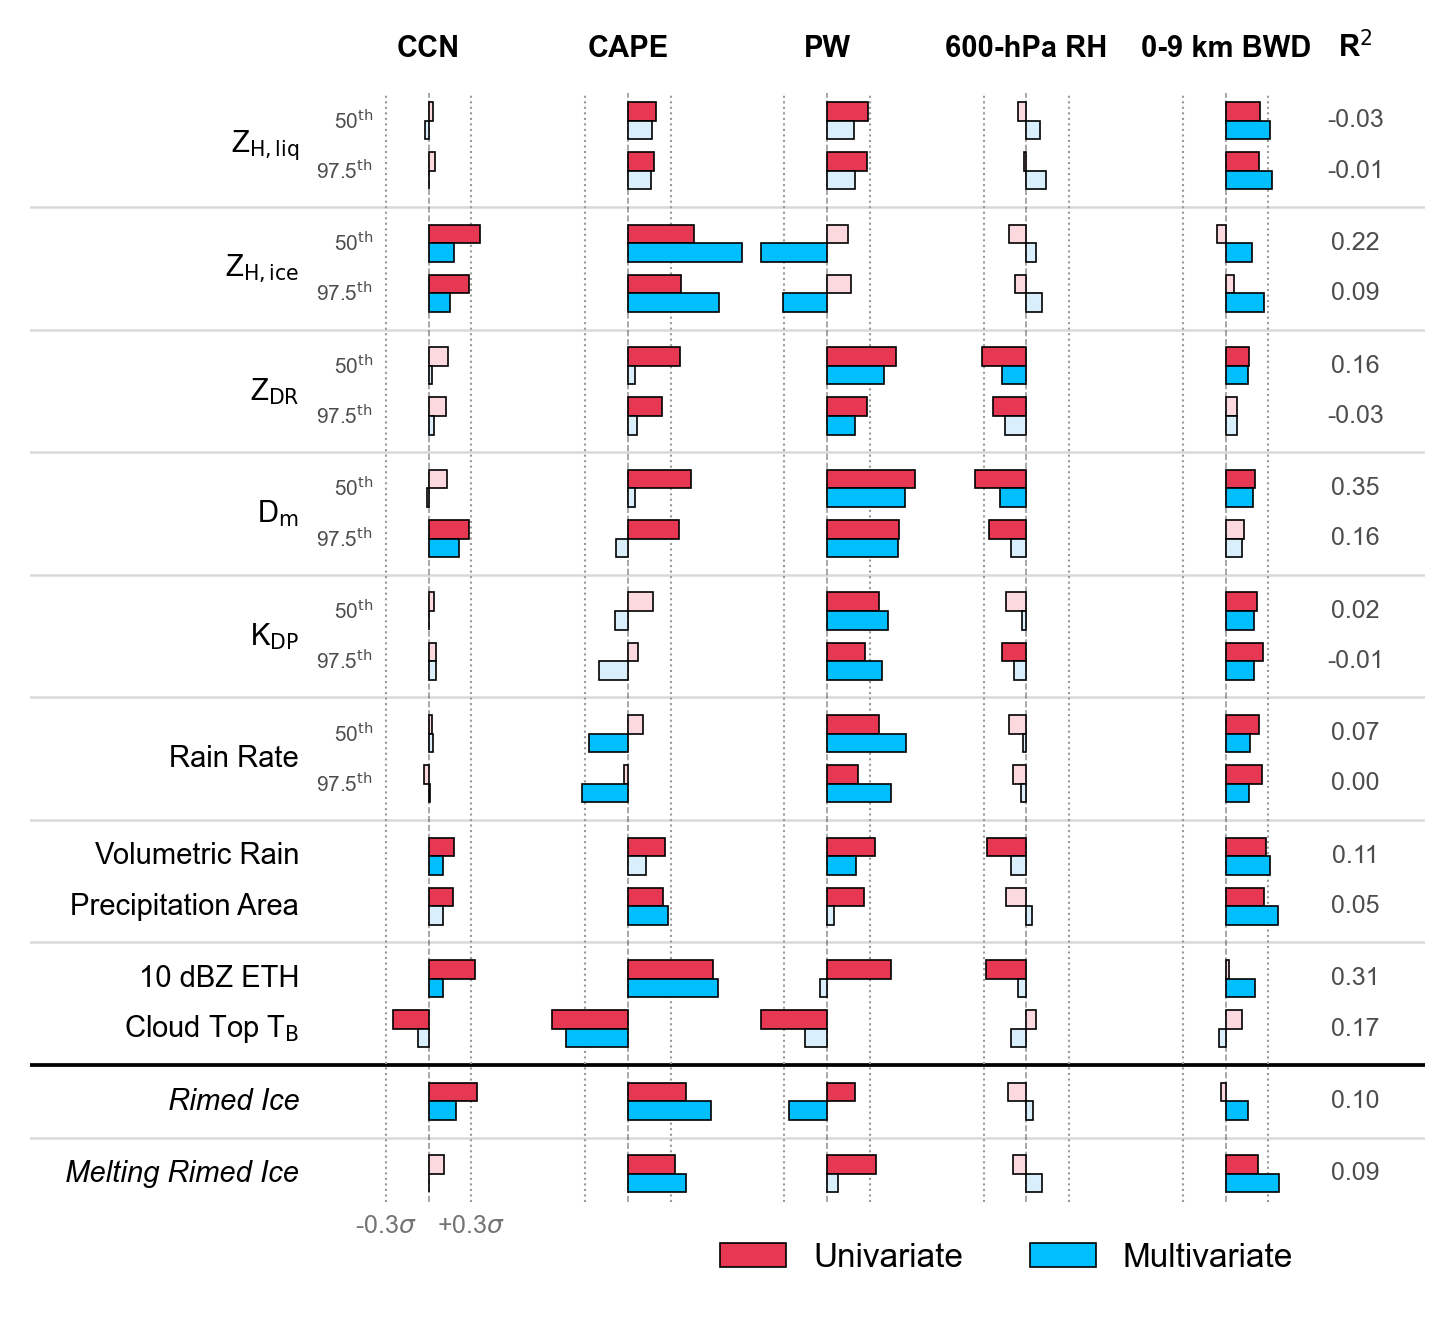
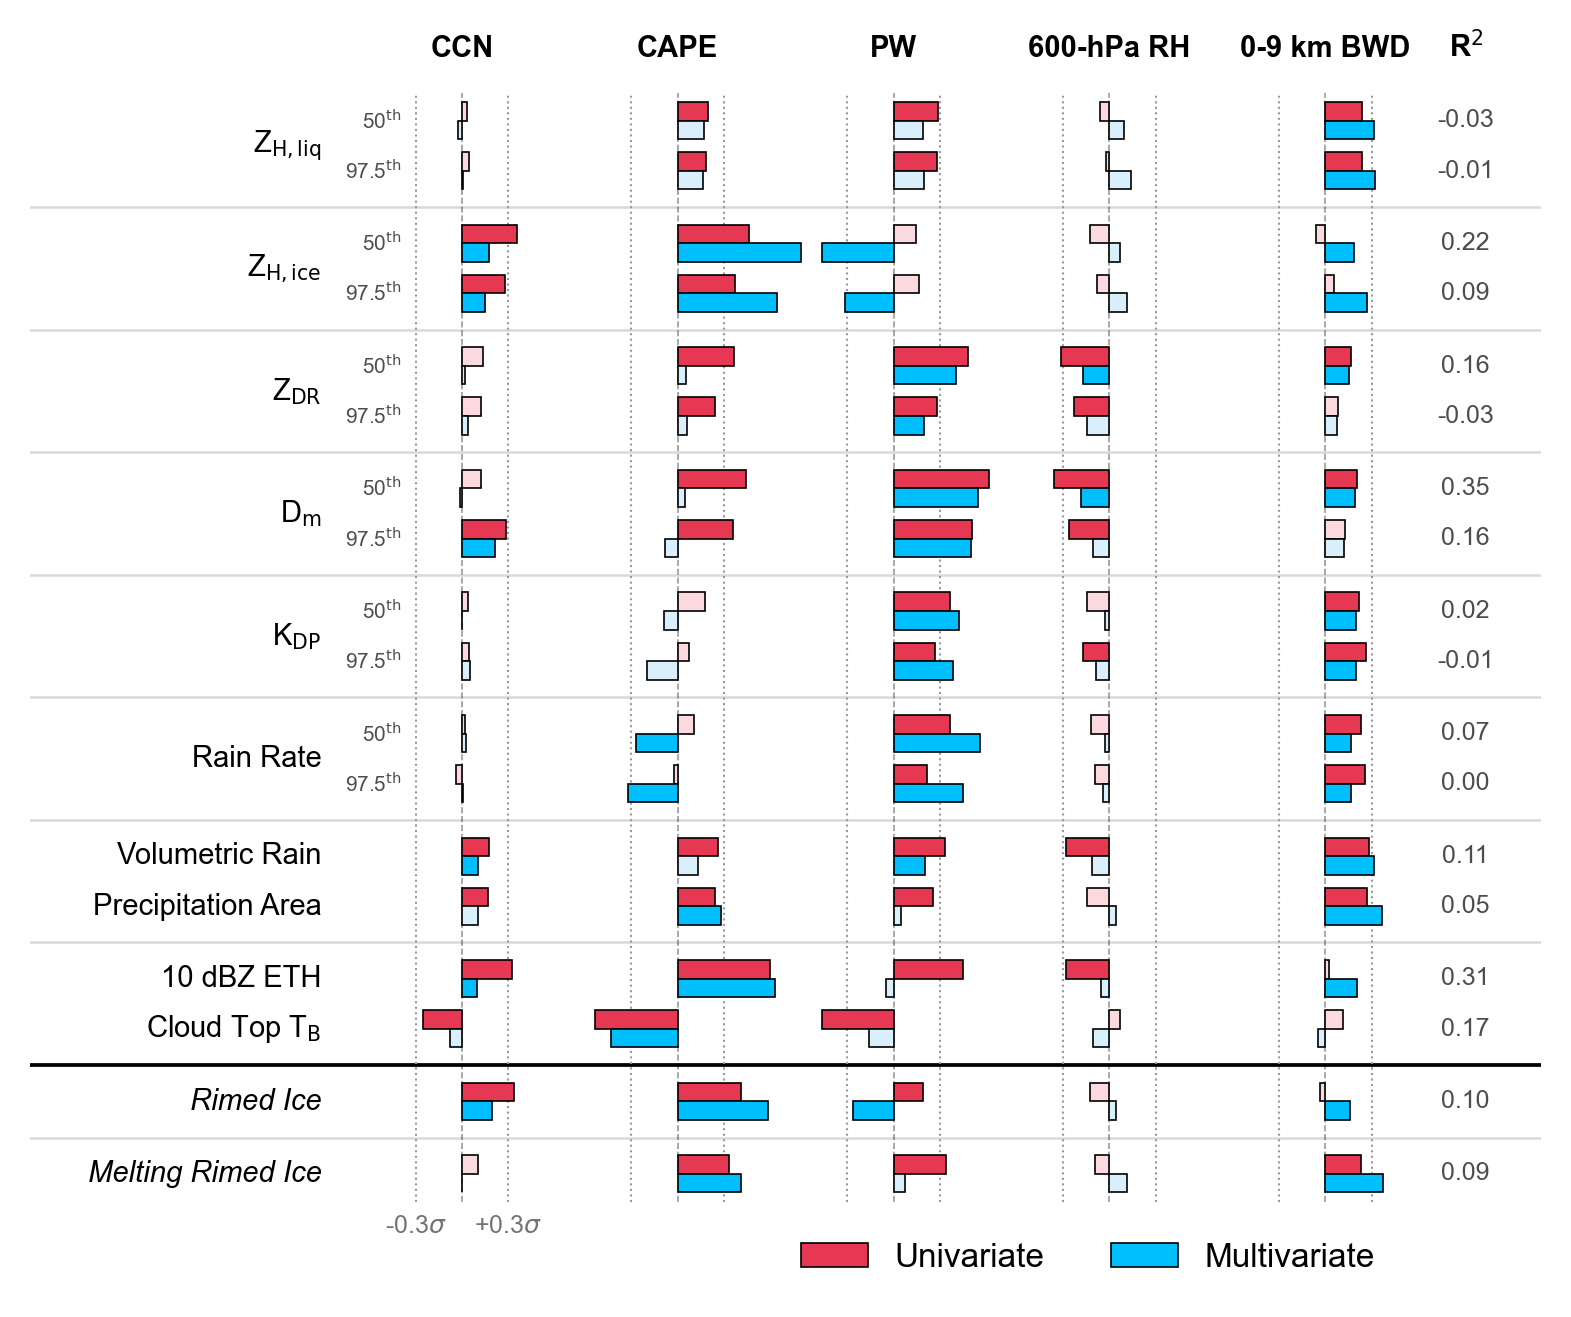
Add lingress_figure and refresh config options; add supplementary lingress figure
- config.yaml: add `lingress_figure` (main/supp) and `refresh` settings
- plots_lingress.py: per-mode response lists and spacing; `supp` mode shows
  every HID category and writes lingress_{CI}_supp{sfx}.png; cache keyed by mode
- plots_lingress.py, plots_pies.py, supp_lingress.py: replace --refresh flag
  with the `refresh` config option
- supp_lingress.py: tighten row spacing and widen figure to 6.5 in
- README: document the new settings, describe the four zips per folder,
  list the supplementary lingress figure
- Regenerate lingress and supp_lingress figures

diff --git a/scripts/plots_lingress.py b/scripts/plots_lingress.py
@@ -4,7 +4,10 @@ Responses run down in bands, predictors across. Each cell stacks RED (upper, one
 model) over BLUE (lower, partial coefficient from the full model); both use
 fit_bootstrap_regression with identical options, hence identical splits. Bar length = median
 over splits; deep colour = 2.5-97.5 split range excludes zero. The right-edge R^2 is the
-multivariate test R^2. Fits are cached per CI variable and mask.
+multivariate test R^2. Fits are cached per CI variable, mask, and mode.
+
+Set lingress_figure: supp in the config for the supplement figure (every HID category, tighter
+bars), suffixed _supp; main is the manuscript figure.
 """
 
 
@@ -33,20 +36,87 @@ mask     = config['mask']
 mask_var = 'good_indices' if mask == 'default' else 'good_indices_' + mask
 mask_sfx = '' if mask == 'default' else '_' + mask
 
+# Main (manuscript) or supplement figure; the supplement adds every HID category
+mode     = config['lingress_figure']
+mode_sfx = '' if mode == 'main' else '_supp'
+
+# Per-mode response list and vertical spacing. bar_height is one bar's thickness in y data
+# units; gaps are edge-to-edge in BAR_HEIGHTs (response pair <-> next, band <-> next band).
+MODES = {
+    'main': {
+        'bar_height': 0.7,
+        'gap_resp':   0.70,
+        'gap_band':   1.90,
+        'single_groups': [
+            [   # bulk rain amount vs. footprint
+                ('Volumetric Rain',             'volrain'),
+                ('Precipitation Area',          'rain_area_sampled'),
+            ],
+            [   # cell scale
+                ('10 dBZ ETH',                  'max_echotop_10dbz'),
+                (r'Cloud Top T$_{\mathrm{B}}$', 'cloud_top_temperature_min'),
+            ],
+            [   # rimed ice composite
+                ('**Rimed Ice**',           'rime_frz'),
+            ],
+            [   # melting rimed ice composite
+                ('**Melting Rimed Ice**',   'rime_liq'),
+            ],
+        ],
+    },
+    'supp': {
+        'bar_height': 0.6,
+        'gap_resp':   0.50,
+        'gap_band':   1.50,
+        'single_groups': [
+            [   # bulk rain amount vs. footprint
+                ('Volumetric Rain',             'volrain'),
+                ('Precipitation Area',          'rain_area_sampled'),
+            ],
+            [   # cell scale
+                ('10 dBZ ETH',                  'max_echotop_10dbz'),
+                (r'Cloud Top T$_{\mathrm{B}}$', 'cloud_top_temperature_min'),
+            ],
+            [   # liquid HID categories
+                ('Drizzle',             'drizzle'),
+                ('Rain',                'rain'),
+                ('Wet Snow',            'wet_snow'),
+            ],
+            [   # rimed ice: composite of the three categories above it
+                ('Graupel-low',         'low_density_graupel'),
+                ('Graupel-high',        'high_density_graupel_frz'),
+                ('Hail',                'hail_frz'),
+                ('**Rimed Ice**',           'rime_frz'),
+            ],
+            [   # melting rimed ice: composite of the three categories above it
+                ('Big Drops',           'big_drops'),
+                ('Graupel-high',        'high_density_graupel_liq'),
+                ('Hail',                'hail_liq'),
+                ('**Melting Rimed Ice**',   'rime_liq'),
+            ],
+            [   # unrimed ice: composite of the three categories above it
+                ('Aggregates',          'aggregates'),
+                ('Ice Crystals',        'ice_crystals'),
+                ('Vertical Ice',        'vertical_ice'),
+                ('**Non-Rimed Ice**',       'snow'),
+            ],
+        ],
+    },
+}
+
 # Coefficient scale shared by both bar types. Not clipped on purpose: overflow into the
 # next column is the cue to raise BAR_SCALE.
 BAR_SCALE     = 0.7
-BAR_HEIGHT    = 0.7  # thickness of one bar, y data units
+BAR_HEIGHT    = MODES[mode]['bar_height']
 COL_HALFWIDTH = 0.5  # half-width available to a bar within its column
 
-# Edge-to-edge gaps, in BAR_HEIGHTs. A pair must read as one object, so keep the
-# within-pair gap well below the others.
+# A pair must read as one object, so keep the within-pair gap well below the others
 GAP_WITHIN_PAIR       = 0     # univariate bar <-> its multivariate bar
-GAP_BETWEEN_RESPONSES = 0.70  # one response's pair <-> the next
-GAP_BETWEEN_BANDS     = 1.90  # last pair of a band <-> first pair of the next
+GAP_BETWEEN_RESPONSES = MODES[mode]['gap_resp']
+GAP_BETWEEN_BANDS     = MODES[mode]['gap_band']
 
 # Height = total_extent * FIG_INCHES_PER_Y, so bar thickness is fixed however many rows
-FIG_WIDTH        = 6
+FIG_WIDTH        = 6.5
 FIG_INCHES_PER_Y = 0.117
 
 HEADER_GAP = 1.5  # top of first bar to column headers, y data units
@@ -97,40 +167,7 @@ percentile_groups = [
 ]
 
 # Non-percentile responses; each inner list is one band, each row labelled individually
-single_groups = [
-    [   # bulk rain amount vs. footprint
-        ('Volumetric Rain',             'volrain'),
-        ('Precipitation Area',          'rain_area_sampled'),
-    ],
-    [   # cell scale
-        ('10 dBZ ETH',                  'max_echotop_10dbz'),
-        (r'Cloud Top T$_{\mathrm{B}}$', 'cloud_top_temperature_min'),
-    ],
-    # [   # liquid HID categories
-    #     ('Drizzle',             'drizzle'),
-    #     ('Rain',                'rain'),
-    #     ('Wet Snow',            'wet_snow'),
-    # ],
-    [   # rimed ice: composite of the three categories commented out below
-        # ('Graupel-low',         'low_density_graupel'),
-        # ('Graupel-high',        'high_density_graupel_frz'),
-        # ('Hail',                'hail_frz'),
-        ('**Rimed Ice**',           'rime_frz'),
-    ],
-    [   # melting rimed ice: composite of the three categories commented out below
-        # ('Big Drops',           'big_drops'),
-        # ('Graupel-high',        'high_density_graupel_liq'),
-        # ('Hail',                'hail_liq'),
-        ('**Melting Rimed Ice**',   'rime_liq'),
-    ],
-    # [   # unrimed ice: composite of the three categories below
-    #     # ('Aggregates',          'aggregates'),
-    #     # ('Ice Crystals',        'ice_crystals'),
-    #     # ('Vertical Ice',        'vertical_ice'),
-    #     ('**Non-Rimed Ice**',       'snow'),
-    # ],
-]
-
+single_groups = MODES[mode]['single_groups']
 
 # Percentile bands get one centred label; single-variable bands label each row
 bands = []
@@ -156,11 +193,11 @@ col2idx = {c: i for i, c in enumerate(pred)}
 lst        = ['ccn',  'CAPE_sfc','pw_mwr', 'rh_600mb', 'shear_mag_bulk_0to9km']
 lst_labels = ['CCN', 'CAPE', 'PW', '600-hPa RH', '0-9 km BWD']
 
-# Cache of the slow fits, one file per CI variable and mask. Fit options are not checked:
-# pass --refresh after changing the responses, predictors, or lib_regression.
-CACHE_PATH = data_dir + '/cache_lingress_' + CI_variable + mask_sfx + '.nc'
+# Cache of the slow fits, one file per CI variable, mode, and mask. Fit options are not checked:
+# set refresh: true after changing the responses, predictors, or lib_regression.
+CACHE_PATH = data_dir + '/cache_lingress_' + CI_variable + mode_sfx + mask_sfx + '.nc'
 
-if '--refresh' in sys.argv or not os.path.exists(CACHE_PATH):
+if config['refresh'] or not os.path.exists(CACHE_PATH):
     df_updr = xr.open_dataset(data_dir + '/df_updr_' + CI_variable + '.nc').to_dataframe()
     good    = xr.open_dataset(data_dir + '/the_chosen_few_' + CI_variable + '.nc')[mask_var].values
     df_updr = df_updr[good]
@@ -320,6 +357,6 @@ legend_elements = [
 ax.legend(handles=legend_elements, loc='upper center',
           bbox_to_anchor=(0.7, -0.01), ncol=2, fontsize=8, frameon=False)
 
-plt.savefig(plots_dir + '/lingress_' + CI_variable + mask_sfx + '.png', dpi=300,
+plt.savefig(plots_dir + '/lingress_' + CI_variable + mode_sfx + mask_sfx + '.png', dpi=300,
             bbox_inches="tight")
 plt.close('all')

diff --git a/scripts/supp_lingress.py b/scripts/supp_lingress.py
@@ -1,6 +1,6 @@
 """Supplementary sensitivity figure: responses down the rows, four sampling sweeps across the
 columns, one bar per variant giving the median standardized CCN coefficient (deep = 95% split
-range excludes zero, hatched = control run). Fits are cached; pass --refresh to refit.
+range excludes zero, hatched = control run). Fits are cached; set refresh: true in the config to refit.
 """
 
 import os
@@ -46,12 +46,12 @@ GAP_WITHIN_GROUP    = 0    # between variants of the same sweep
 GAP_BETWEEN_COLUMNS = 1.5  # between sweeps
 
 # Vertical gaps, y data units (a lane spans 2 * ROW_HALFHEIGHT)
-GAP_BETWEEN_RESPONSES = 0.3  # between response lanes
+GAP_BETWEEN_RESPONSES = 0.1  # between response lanes
 GAP_BETWEEN_BANDS     = 1.0  # between bands
 
 # Width is fixed; INCH_PER_Y_UNIT trades magnitude resolution against figure height
-FIG_WIDTH       = 6.2
-INCH_PER_Y_UNIT = 0.5
+FIG_WIDTH       = 6.5
+INCH_PER_Y_UNIT = 0.4
 
 LABEL_MARGIN = 4.2  # left margin for row labels, x data units
 
@@ -185,7 +185,7 @@ for column in COLUMNS:
                         for lab, v in zip(column['labels'], column['variants'])]
 
 
-# Fit options are not checked against the cache: pass --refresh after changing the
+# Fit options are not checked against the cache: set refresh: true after changing the
 # variants, responses, predictors, or lib_regression
 CACHE_PATH = data_dir + '/cache_supp_lingress_' + CI_variable + '.nc'
 
@@ -195,7 +195,7 @@ def _key(variant):
     return '|'.join(variant)
 
 
-if '--refresh' in sys.argv or not os.path.exists(CACHE_PATH):
+if config['refresh'] or not os.path.exists(CACHE_PATH):
     # Dedup, so the control is fitted once
     variants = sorted({v for column in COLUMNS for v in column['variants']})
 

diff --git a/scripts/plots_pies.py b/scripts/plots_pies.py
@@ -86,7 +86,7 @@ RESPONSES = [
     ('Volumetric Rain',                 'rainarea',  'volrain'),
 ]
 
-# One cache per mask. Fit options are not checked: pass --refresh after changing the panels,
+# One cache per mask. Fit options are not checked: set refresh: true after changing the panels,
 # predictors, or lib_regression.
 CACHE_PATH = data_dir + '/cache_pies' + mask_sfx + '.nc'
 
@@ -115,7 +115,7 @@ def fit_panels(ci_var, cols):
     )
 
 
-if '--refresh' in sys.argv or not os.path.exists(CACHE_PATH):
+if config['refresh'] or not os.path.exists(CACHE_PATH):
     # One fit per CI definition
     by_ci = {}
     for _, ci_var, col in RESPONSES:

diff --git a/README.md b/README.md
@@ -29,14 +29,14 @@ as four zips. Unzip them all into the same folder and set `celltracking_dir` and
 to the two folders this creates. `data.zip` is enough for every figure except `plots_csec.py`,
 which also needs `terrain.zip` and `case.zip`.
 
-`celltracking_dir` must contain four subfolders:
+`celltracking_dir` holds up to four subfolders:
 
-| Folder          | Contents                                                        | Source |
-|-----------------|-----------------------------------------------------------------|--------|
-| `stats/`        | Track statistics and per-track environment/aerosol parameters   | [Zenodo](https://doi.org/10.5281/zenodo.23094051), made with [PyFLEXTRKR](https://github.com/FlexTRKR/PyFLEXTRKR) + [cacti-radar](https://github.com/ICLASS-SFA/cacti-radar/tree/time_series_enochjo) |
-| `celltracking/` | Per-timestep cell masks, `20181015.0000_20190303.0000/celltracks_*.nc` | [Zenodo](https://doi.org/10.5281/zenodo.23094051) (case-study timestep only), made with [PyFLEXTRKR](https://github.com/FlexTRKR/PyFLEXTRKR) |
-| `data/`         | Preprocessing outputs (see below)                               | [Zenodo](https://doi.org/10.5281/zenodo.23094051) |
-| `terrain/`      | `terrain_d01.nc`, `lat_d01.nc`, `lon_d01.nc`                    | [Zenodo](https://doi.org/10.5281/zenodo.23094051) |
+| Folder          | Contents                                                        | Zip |
+|-----------------|-----------------------------------------------------------------|-----|
+| `data/`         | Preprocessing outputs (see below)                               | `data.zip` |
+| `stats/`        | Track statistics and per-track environment/aerosol parameters, made with [PyFLEXTRKR](https://github.com/FlexTRKR/PyFLEXTRKR) + [cacti-radar](https://github.com/ICLASS-SFA/cacti-radar/tree/time_series_enochjo). Only preprocessing reads it | `stats.zip` |
+| `terrain/`      | `terrain_d01.nc`, `lat_d01.nc`, `lon_d01.nc`                    | `terrain.zip` |
+| `celltracking/` | Per-timestep cell masks, `20181015.0000_20190303.0000/celltracks_*.nc`, made with [PyFLEXTRKR](https://github.com/FlexTRKR/PyFLEXTRKR) (case-study timestep only) | `case.zip` |
 
 The preprocessing scripts read these six files from `stats/`:
 
@@ -48,16 +48,16 @@ The preprocessing scripts read these six files from `stats/`:
 - `combomet_parameters_celltrack_20181015.0000_20190303.0000.nc`
 
 `gridded_dir` holds the TARANIS gridded radar files
-(`taranis_corcsapr2cfrppiqcM1.c1.*_gridded.nc`). Only `plots_csec.py` needs it. Zenodo has
-the case-study file. The full set is on NERSC (m1657 members) in `/global/cfs/cdirs/m1657/enochjo/taranis/taranis_corcsapr2cfrppiqcM1_gridded.c1/`.
+(`taranis_corcsapr2cfrppiqcM1.c1.*_gridded.nc`). Only `plots_csec.py` needs it. `case.zip`
+has the case-study file. The full set is on NERSC (m1657 members) in `/global/cfs/cdirs/m1657/enochjo/taranis/taranis_corcsapr2cfrppiqcM1_gridded.c1/`.
 
 ## Config options
 
-The config has two analysis switches besides the paths:
+Besides the paths, the config has four settings:
 
 - **`CI_variable`** sets the CI definition: the metric whose first peak within 2 h of track
   initiation sets the time each cell is sampled. The choices are `eth_10dbz` (main), `Tb_min`,
-  `zh_max`, `rr_max`, `volrain` and `rainarea`. Most figure names end in it, e.g.
+  `zh_max`, `rr_max`, `volrain` and `rainarea`. Most figure names include it, e.g.
   `corr_full_eth_10dbz.png`.
 - **`mask`** sets which cell filter from `the_chosen_few_{CI_variable}.nc` is applied. The
   default is `default` (details in `scripts/pipe_filter.py`). The other masks are
@@ -67,8 +67,11 @@ The config has two analysis switches besides the paths:
   - drop the Nth most prolific start date: `date1`–`date4`
 
   A non-default mask adds `_{mask}` to the figure name, so the manuscript figures are never
-  overwritten. Only the `plots_*` scripts (except `plots_csec.py`) read `mask`. These are the
-  figures marked `{sfx}` below. `plots_csec.py` and the `supp_*` scripts use fixed masks.
+  overwritten. Only the figures marked `{sfx}` below follow `mask`. `plots_csec.py` and the
+  `supp_*` scripts use fixed masks.
+- **`lingress_figure`** picks the `plots_lingress.py` figure: `main` or `supp` (every HID
+  category).
+- **`refresh`** refits the cached regressions (see [Making figures](#making-figures)).
 
 ## Preprocessing (optional)
 
@@ -90,20 +93,16 @@ once. So if you regenerate, run both steps once for each of the six `CI_variable
 ## Making figures
 
 Each figure script reads `df_updr_*.nc` and `the_chosen_few_*.nc` and writes PNGs to
-`plots_dir`. The exception is `plots_csec.py`, which reads only `the_chosen_few_eth_10dbz.nc`
-and always uses its default sample.
+`plots_dir`. The exception is `plots_csec.py`, which reads only the default mask of
+`the_chosen_few_eth_10dbz.nc`, plus the radar, cell-mask and terrain files.
 
 Three scripts fit regressions over 5000 repeated 70/30 train/test splits (`lib_regression.py`)
 and cache the fits in `data/cache_*.nc`: `plots_lingress.py`, `plots_pies.py` and
-`supp_lingress.py`. The caches are not on Zenodo, so the first run of each script fits the
-regressions. After that, the cache is reused. Each `CI_variable`/`mask` setting a script reads
-gets its own cache, but the contents are not checked against the current settings, so pass
-`--refresh` after re-running preprocessing or changing predictors, responses, panels or
-`lib_regression.py`:
-
-```bash
-python scripts/plots_lingress.py scripts/config.local.yaml --refresh
-```
+`supp_lingress.py`. The caches are not on Zenodo, so each script fits on its first run and
+reuses the cache after that. Each combination of the settings a script reads (`CI_variable`,
+`mask`, `lingress_figure`) gets its own cache. A cache is not refit when its inputs or the
+fitting code change, so set `refresh: true` after re-running preprocessing or changing
+predictors, responses, panels or `lib_regression.py`, then set it back to `false`.
 
 ## Scripts and figures
 
@@ -130,6 +129,7 @@ scripts.
 | Script              | Figure(s)                                                     | What it shows |
 |---------------------|---------------------------------------------------------------|---------------|
 | `plots_corr_full.py`| `corr_full_{CI}{sfx}.png`                                     | Spearman correlogram of all variables |
+| `plots_lingress.py` | `lingress_{CI}_supp{sfx}.png` (`lingress_figure: supp`)      | The main `lingress` figure with every HID category |
 | `supp_misc.py`      | `supp_thetae_diff.png`, `supp_dates_{CI}.png`, `supp_radardist_{CI}.png` | Checks on the filter choices: θ<sub>e</sub><sup>MU</sup> − θ<sub>e</sub><sup>SFC</sup> (surface coupling), cells per start date, cells vs radar range (`110km` mask) |
 | `supp_cellprop.py`  | `supp_sampletime.png`, `supp_duration_{CI}.png`               | Box plots of CI time across all six CI definitions, and of echo top / rain area across the lifetime masks |
 | `supp_lingress.py`  | `supp_lingress_{CI}.png` (paper: `eth_10dbz`, `rainarea`)     | Sensitivity of the CCN coefficient across radar-range, lifetime, CI-definition and excluded-date variants |
